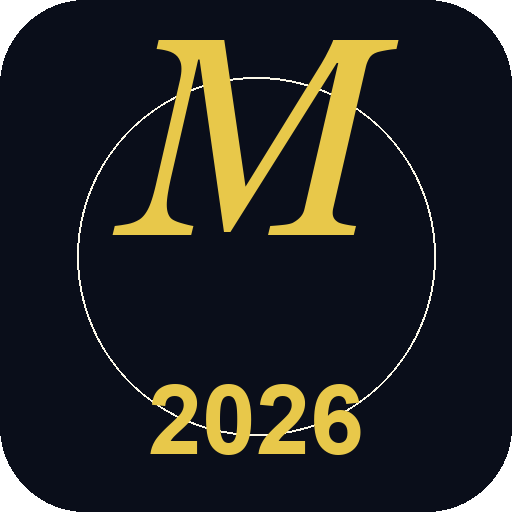
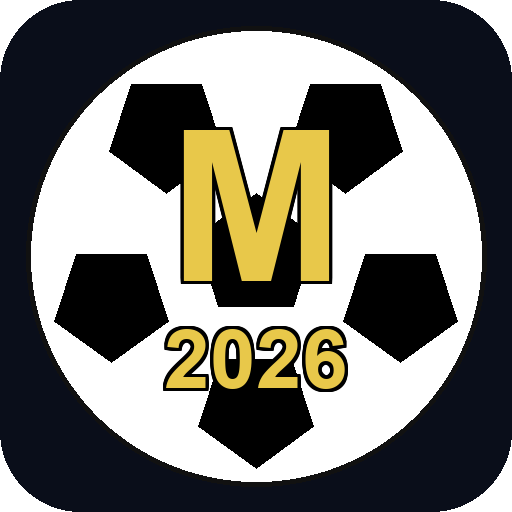
feat: iconos PWA pelota de fútbol con texto amarillo
Icono blanco y negro con patrón de pentágonos clásico y texto
M/2026 en amarillo dorado. Instrucciones de instalación iOS corregidas.

diff --git a/index.html b/index.html
@@ -342,7 +342,7 @@
     <div class="install-panel" id="install-ios">
       <ol class="install-steps">
         <li><span class="step-num">1</span>Abre esta página en <strong>Safari</strong></li>
-        <li><span class="step-num">2</span>Pulsa el botón <strong>compartir</strong> (cuadrado con flecha ↑, barra inferior)</li>
+        <li><span class="step-num">2</span>Toca ⬆️ <strong>Compartir</strong> en la barra inferior</li>
         <li><span class="step-num">3</span>Desliza y toca <strong>"Añadir a pantalla de inicio"</strong></li>
         <li><span class="step-num">4</span>Confirma — el icono aparecerá en tu inicio</li>
       </ol>